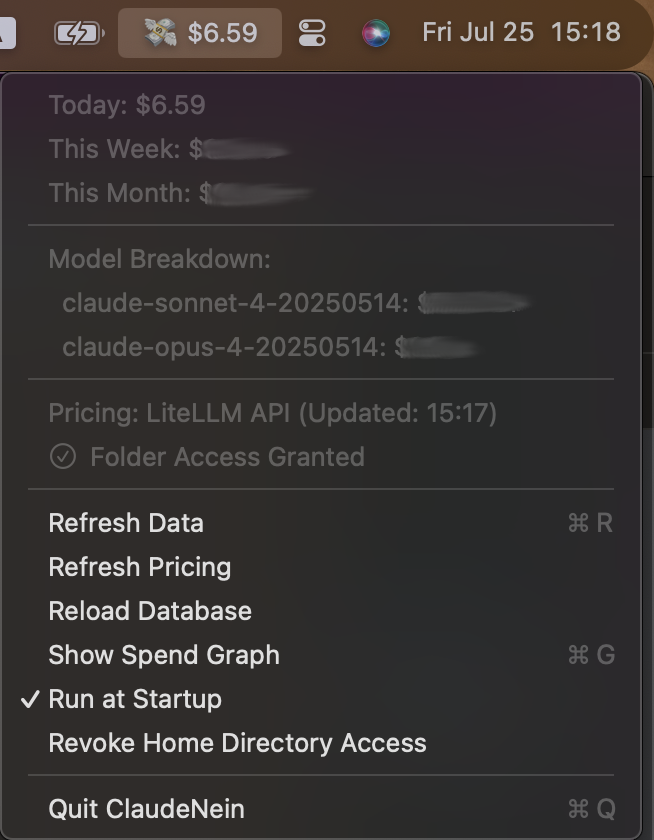
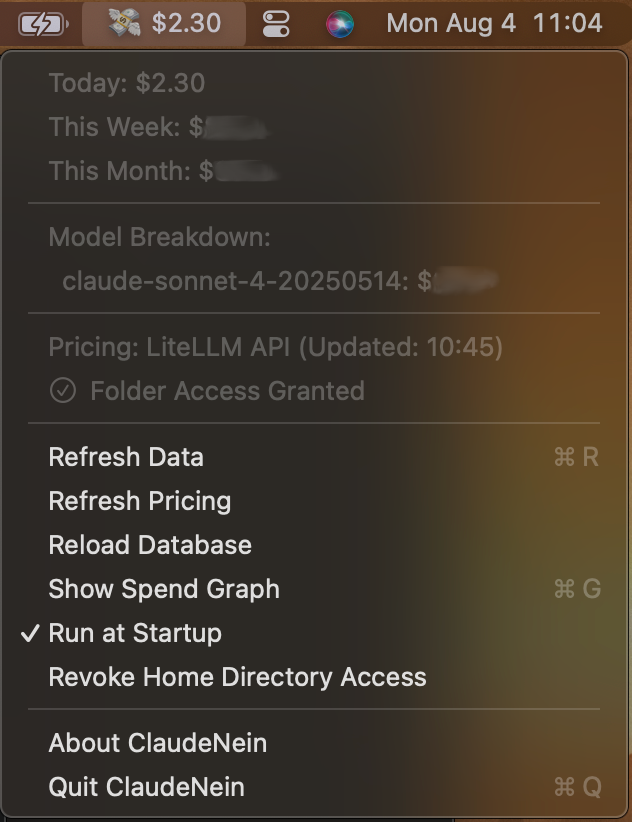
docs: update README to reflect current project state
- Add GraphRenderer.swift and AboutView.swift to project structure
- Update spend graphs feature description to include switchable plot types
- Enhance architecture section with graph rendering components
- Update screenshot images to show current UI state

diff --git a/README.md b/README.md
@@ -29,7 +29,7 @@ Claude Nein lives in your macOS menu bar, keeping you constantly updated on your
 - **Persistent Data Storage** – usage is cached locally in Core Data so data survives restarts.
 - **Run at Startup Option** – enable automatic launch when you log in.
 - **Database Management** – built in "Reload Database" command clears and reloads cached usage.
-- **Spend Graphs** – interactive graph view showing spending trends by day, month, or year with navigation controls.
+- **Spend Graphs** – interactive graph view showing spending trends by day, month, or year with navigation controls and switchable plot types (bar and cumulative).
 - **Secure & Private** – all processing happens on your Mac; the only network request fetches pricing information.
 - **Claude Directory Access Control** – you explicitly grant and revoke access only to the Claude log directories.
 - **Up‑to‑Date Pricing** – pricing data is pulled from LiteLLM with cached and bundled fallbacks, and the current data source is displayed in the menu.
@@ -62,6 +62,8 @@ Claude Nein lives in your macOS menu bar, keeping you constantly updated on your
     - `DataStore` for Core Data persistence and spend calculations
     - `PricingManager` for fetching and caching model pricing data
     - `HomeDirectoryAccessManager` for handling secure file access permissions
+    - `GraphRenderer` for modular graph rendering with multiple plot types
+    - `SpendGraphView` for interactive spending visualization
 
 ### Data Source
 
@@ -89,6 +91,8 @@ ClaudeNein/
 ├── LiteLLMParser.swift              # Parses pricing data from LiteLLM source
 ├── LaunchAtLoginManager.swift       # Manages launch at login functionality
 ├── SpendGraphView.swift             # SwiftUI view for spending graphs
+├── GraphRenderer.swift              # Modular graph rendering system
+├── AboutView.swift                  # About dialog with app information
 ├── Logger.swift                     # Centralized logging system
 └── Assets.xcassets/                 # App icons and assets
 ```
